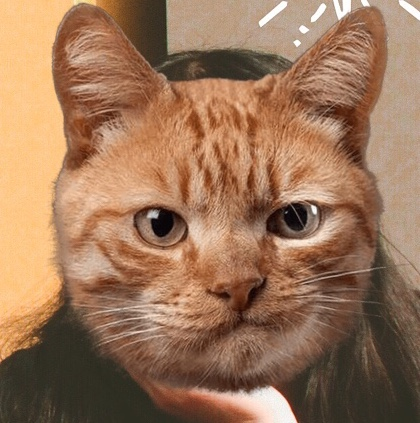
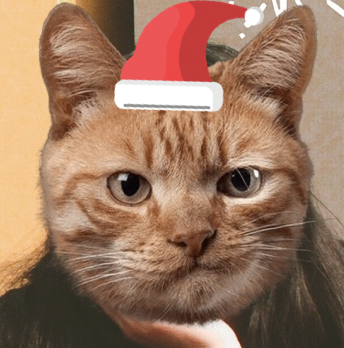
christmas update

diff --git a/js/html_actuator.js b/js/html_actuator.js
@@ -134,17 +134,33 @@ HTMLActuator.prototype.message = function (won) {
 
 HTMLActuator.prototype.onSureClick = function (count) {
     if (count == 0) {
-        this.messageContainer.getElementsByTagName("p")[0].textContent = "f**k you";
-        this.messageContainer.getElementsByTagName("img")[0].src = "./img/fight.gif";
+        this.messageContainer.getElementsByTagName("p")[0].textContent = "Merry with 猫猫！";
+        this.messageContainer.getElementsByTagName("img")[0].src = "./img/3.jpg";
+        this.messageContainer.getElementsByTagName("a")[2].textContent = "Cute";
     }
     if (count == 1) {
-        this.messageContainer.getElementsByTagName("p")[0].textContent = "欧拉!";
-        this.messageContainer.getElementsByTagName("img")[0].src = "./img/fight2.gif";
+        this.messageContainer.getElementsByTagName("p")[0].textContent = "Merry with 鹿鹿！";
+        this.messageContainer.getElementsByTagName("img")[0].src = "./img/5.jpg";
+        this.messageContainer.getElementsByTagName("a")[2].textContent = "Cuter";
+
     }
     if (count == 2){
-        this.messageContainer.getElementsByTagName("p")[0].textContent = "Oops!";
+        this.messageContainer.getElementsByTagName("p")[0].textContent = "";
         this.messageContainer.getElementsByTagName("img")[0].src = "";
-        this.messageContainer.getElementsByTagName("span")[0].textContent = "Error! Too beautiful to show!";
+        this.messageContainer.getElementsByTagName("span")[0].textContent = "Everyone Loves Christmas!";
+        this.messageContainer.getElementsByTagName("a")[2].textContent = "Yes";
+    }
+    if (count == 3){
+        this.messageContainer.getElementsByTagName("span")[0].textContent = "Everyone Loves Merry Christmas!";
+        this.messageContainer.getElementsByTagName("a")[2].textContent = "Yes";
+    }
+    if (count ==7) {
+        this.messageContainer.getElementsByTagName("span")[0].textContent = "Cy Loves Merry Only";
+        this.messageContainer.getElementsByTagName("a")[2].textContent = "Sure";
+    }
+    if (count ==20){
+        this.messageContainer.getElementsByTagName("span")[0].textContent = "It's not a joke";
+        this.messageContainer.getElementsByTagName("a")[2].textContent = "Thank You";
     }
     count = count + 1;
     return count;

diff --git a/index.html b/index.html
@@ -14,17 +14,17 @@
     <meta name="viewport"
           content="width=device-width, target-densitydpi=160dpi, initial-scale=1.0, maximum-scale=1, user-scalable=no, minimal-ui">
 </head>
-<body>
+<body background="url(img/background.gif)">
 <div class="container">
     <div class="heading">
-        <h1 class="title">GetComic</h1>
+        <h1 class="title">Merry Merry Christmas！</h1>
         <div class="scores-container">
             <div class="score-container">0</div>
             <div class="best-container">0</div>
         </div>
     </div>
     <p class="game-intro">Combine other comics to reach the <span
-            onclick="document.body.style.background='url(img/background.gif)';">final almighty <strong>Double Chins!</strong></span>
+            onclick="document.body.style.background='url(img/background.gif)';">final almighty <strong>Merry!</strong></span>
     </p>
 
     <div class="game-container">
@@ -35,8 +35,8 @@
             <div class="lower">
                 <a class="keep-playing-button">Keep going</a>
                 <a class="retry-button">Try again</a>
-                <a class="sure" >Sure</a>
-                <a class="reject">Reject</a>
+                <a class="sure" >Thanks</a>
+                <!--<a class="reject">Reject</a>-->
             </div>
         </div>
 
@@ -86,7 +86,7 @@
         The 11th(2048) comic is the <strong> Hidden awesome one</strong>!
     </p>
     <p>
-        <span onclick="log()"><strong>Enjoy it!</strong></span>
+        <span onclick="log()"><strong>It's Merry!</strong></span>
     </p>
 </div>
 
@@ -99,10 +99,12 @@
 <script src="js/game_manager.js"></script>
 <script src="js/application.js"></script>
 <script>
+
     function log() {
         this.messageContainer = document.querySelector(".game-message");
         this.messageContainer.classList.add("uncover");
-        this.messageContainer.getElementsByTagName("p")[0].textContent = "cover is awful?";
+        this.messageContainer.getElementsByTagName("p")[0].textContent = "Merry's Christmas";
+        this.messageContainer.getElementsByTagName("img")[0].src = "./img/ball.gif";
     }
 </script>
 </body>

diff --git a/js/keyboard_input_manager.js b/js/keyboard_input_manager.js
@@ -65,9 +65,9 @@ KeyboardInputManager.prototype.listen = function () {
     sure.addEventListener("click", this.sure.bind(this));
     sure.addEventListener("touchend", this.sure.bind(this));
 
-    var reject = document.querySelector(".reject");
-    reject.addEventListener("click", this.reject.bind(this));
-    reject.addEventListener("touchend", this.reject.bind(this));
+    // var reject = document.querySelector(".reject");
+    // reject.addEventListener("click", this.reject.bind(this));
+    // reject.addEventListener("touchend", this.reject.bind(this));
 
     // Listen to swipe events
     var touchStartClientX, touchStartClientY;
